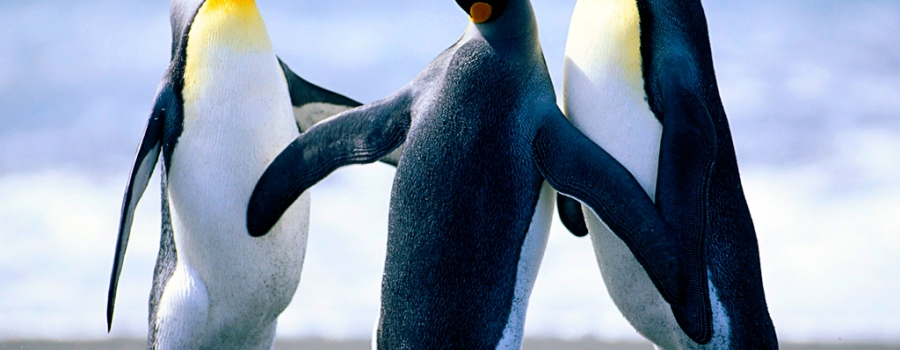
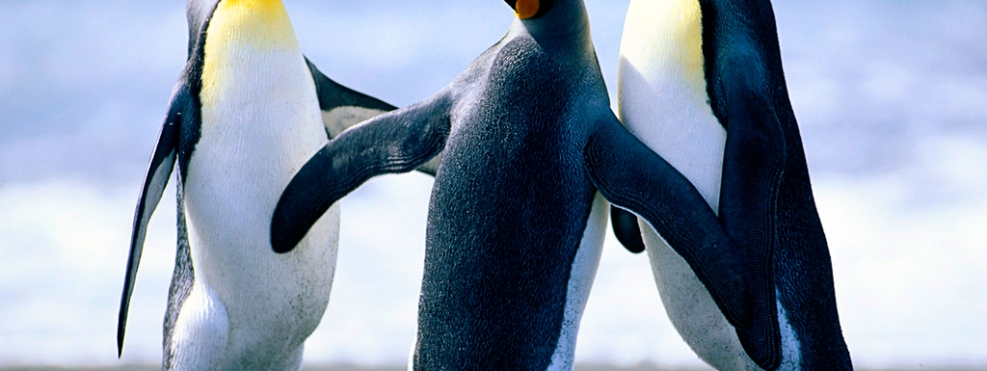
Revision 1 actualizaciones 2

diff --git a/web/css/main.css b/web/css/main.css
@@ -30,6 +30,7 @@ body.inicio {
   position: absolute;
   top: 10px;
   left: 10px;
+  z-index: 1000;
 }
 #menu-toggle {
   display: none;
@@ -276,17 +277,20 @@ article.nosotros .col-derecha {
   padding-right: 10px;
 }
 article.servicios {
-  margin: 10px;
+  margin: 0px 10px 10px;
   position: relative;
 }
 article.servicios ul.navegador {
-  margin: 0px;
-  padding: 0px;
+  margin: 0px 0px 10px;
+  padding: 20px 0px;
   position: absolute;
-  right: 10px;
-  top: 10px;
+  right: 0px;
+  top: 0px;
   z-index: 1000;
   overflow: hidden;
+  border-bottom: 1px solid #fbd7b7;
+  width: 100%;
+  text-align: right;
 }
 article.servicios ul.navegador li.item {
   list-style: none;
@@ -299,7 +303,7 @@ article.servicios ul.navegador li.item {
 article.servicios ul.navegador li.item a {
   text-transform: uppercase;
   text-decoration: none;
-  color: #e64f30;
+  color: #d74934;
   -webkit-transition: all 0.5 ease-in;
   -moz-transition: all 0.5 ease-in;
   -ms-transition: all 0.5 ease-in;
@@ -308,12 +312,13 @@ article.servicios ul.navegador li.item a {
   font-size: 22px;
   line-height: 22px;
   font-weight: bold;
+  font-family: 'proxima_novasemibold';
 }
 article.servicios ul.navegador li.item a:hover {
-  color: #ffa500;
+  color: #f48624;
 }
 article.servicios ul.navegador li.active a {
-  color: #ffa500;
+  color: #f48624;
 }
 article.servicios ul.navegador li.item:first-child {
   border-left: none;
@@ -330,8 +335,11 @@ article.servicios .servicios .servicio {
   display: none;
 }
 article.servicios .servicios .servicio .galeria {
-  height: 370px;
+  height: 371px;
+  width: 987px;
+  margin: 0 auto;
   margin-bottom: 20px;
+  position: relative;
 }
 article.servicios .servicios .servicio .galeria > li {
   width: 900px;
@@ -340,6 +348,18 @@ article.servicios .servicios .servicio .galeria > li {
 article.servicios .servicios .servicio .galeria > li img {
   width: 100%;
   height: 100%;
+}
+article.servicios .servicios .servicio .galeria span.titulo-servicio {
+  position: absolute;
+  top: 10px;
+  left: 10px;
+  font-size: 24px;
+  color: #fff;
+  background-color: rgba(0,0,0,0.8);
+  padding: 3px 10px;
+  z-index: 1000;
+  text-transform: uppercase;
+  font-family: 'proxima_novasemibold';
 }
 article.servicios .servicios .servicio .descripcion {
   text-align: left;
@@ -358,13 +378,16 @@ article.clientes .listado {
   margin: 0 auto;
   padding: 0px;
   list-style: none;
+width
 }
 article.clientes .listado .cliente {
-  border: 1px solid #808080;
+  border: 1px solid #d3d3d3;
   display: inline-block;
   vertical-align: top;
-  height: 110px;
-  width: 110px;
+  height: 123px;
+  width: 123px;
+  margin: 0px;
+  padding: 0px;
 }
 article.clientes .listado .cliente img {
   width: 100%;
@@ -388,6 +411,16 @@ article.contacto h3.encabezadoInca {
 }
 article.contacto #formulario_contacto label {
   text-transform: capitalize;
+}
+article.contacto #formulario_contacto .form-submit {
+  background-color: #79004a;
+  color: #fff;
+  opacity: 0.8;
+  filter: progid:DXImageTransform.Microsoft.Alpha(Opacity=80);
+}
+article.contacto #formulario_contacto .form-submit:hover {
+  opacity: 1;
+  filter: progid:DXImageTransform.Microsoft.Alpha(Opacity=100);
 }
 article.mapas {
   position: relative;

diff --git a/src/Richpolis/PaginasBundle/Controller/PaginaController.php b/src/Richpolis/PaginasBundle/Controller/PaginaController.php
@@ -330,7 +330,11 @@ class PaginaController extends Controller
                 $registro->setTipoArchivo(RpsStms::TIPO_ARCHIVO_IMAGEN);
                 //unset($result["filename"],$result['original'],$result['titulo'],$result['contenido']);
                 $em->persist($registro);
-                $registro->crearThumbnail();
+                if($pagina->getPagina()=="clientes"){
+                    $this->crearThumbnailClientes($registro);
+                }else{
+                    $registro->crearThumbnail();    
+                }
                 $pagina->getGalerias()->add($registro);
                 $em->flush();
             }
@@ -401,6 +405,51 @@ class PaginaController extends Controller
         $response = new \Symfony\Component\HttpFoundation\JsonResponse();
         $response->setData(array("ok"=>true));
         return $response;
+    }
+
+    /*
+     * Crea el thumbnail especifico para la pagina de clientes
+     * 
+     * @return void
+     */
+    public function crearThumbnailClientes(Galeria $galeria,$width=123,$height=123,$path=""){
+        $imagine    = new \Imagine\Gd\Imagine();
+        $collage    = $imagine->create(new \Imagine\Image\Box(123, 123));
+        $mode       = \Imagine\Image\ImageInterface::THUMBNAIL_INSET;
+        $image      = $imagine->open($galeria->getAbsolutePath());
+        $sizeImage  = $image->getSize();
+        if(strlen($path)==0){
+            $path = $galeria->getAbosluteThumbnailPath();
+        }
+        if($height == null){
+            $height = $sizeImage->getHeight();
+            if($height>123){
+                $height = 123;
+            }
+        }
+        if($width == null){
+            $width = $sizeImage->getWidth();
+            if($width>123){
+                $width = 123;
+            }
+        }
+        $size   =new \Imagine\Image\Box($width,$height);
+        $image->thumbnail($size,$mode)->save($path);
+        $image = $imagine->open($path);
+        $size = $image->getSize();
+        if((123 - $size->getWidth())>1){
+            $width = ceil((123 - $size->getWidth())/2);
+        }else{
+            $width = 0;
+        }
+        if((123 - $size->getHeight())>1){
+            $height = ceil((123 - $size->getHeight())/2);
+        }else{
+            $height =0;
+        }    
+        $centrado = new \Imagine\Image\Point($width, $height);
+        $collage->paste($image,$centrado);
+        $collage->save($path);        
     }
     
 }
